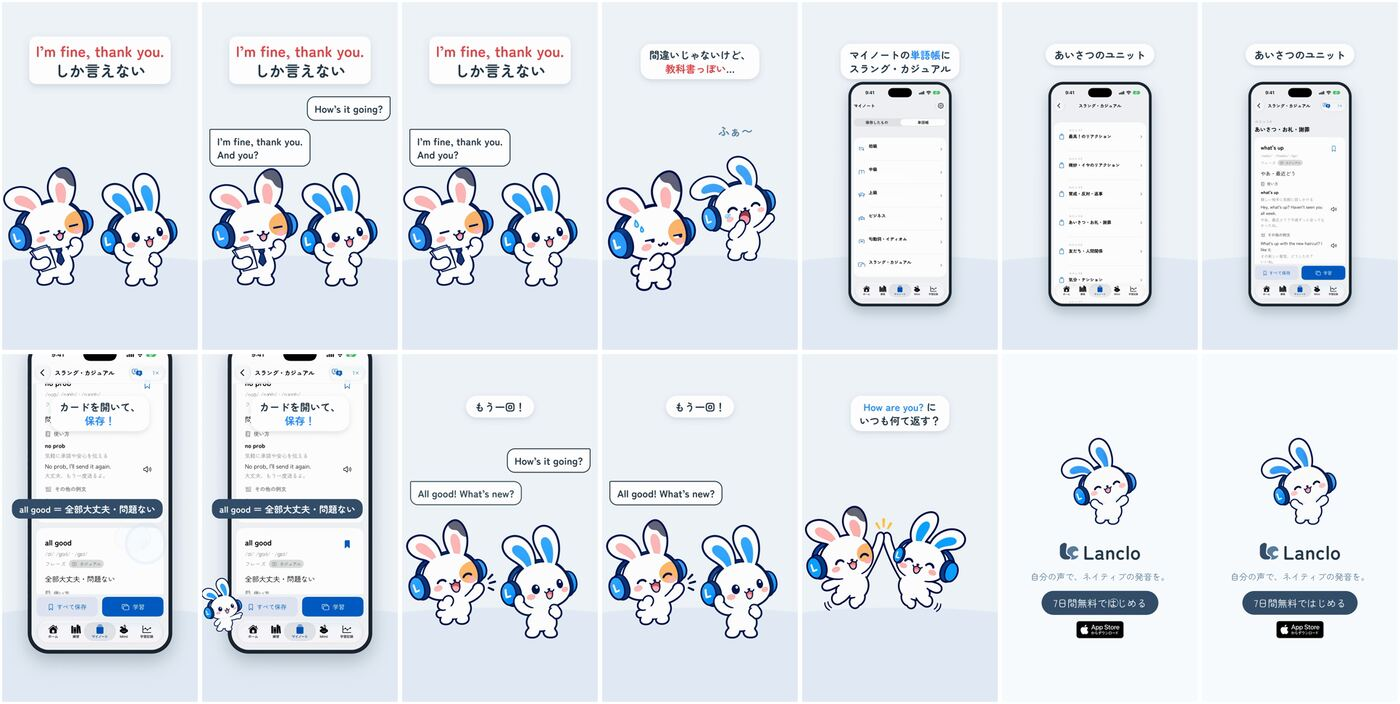
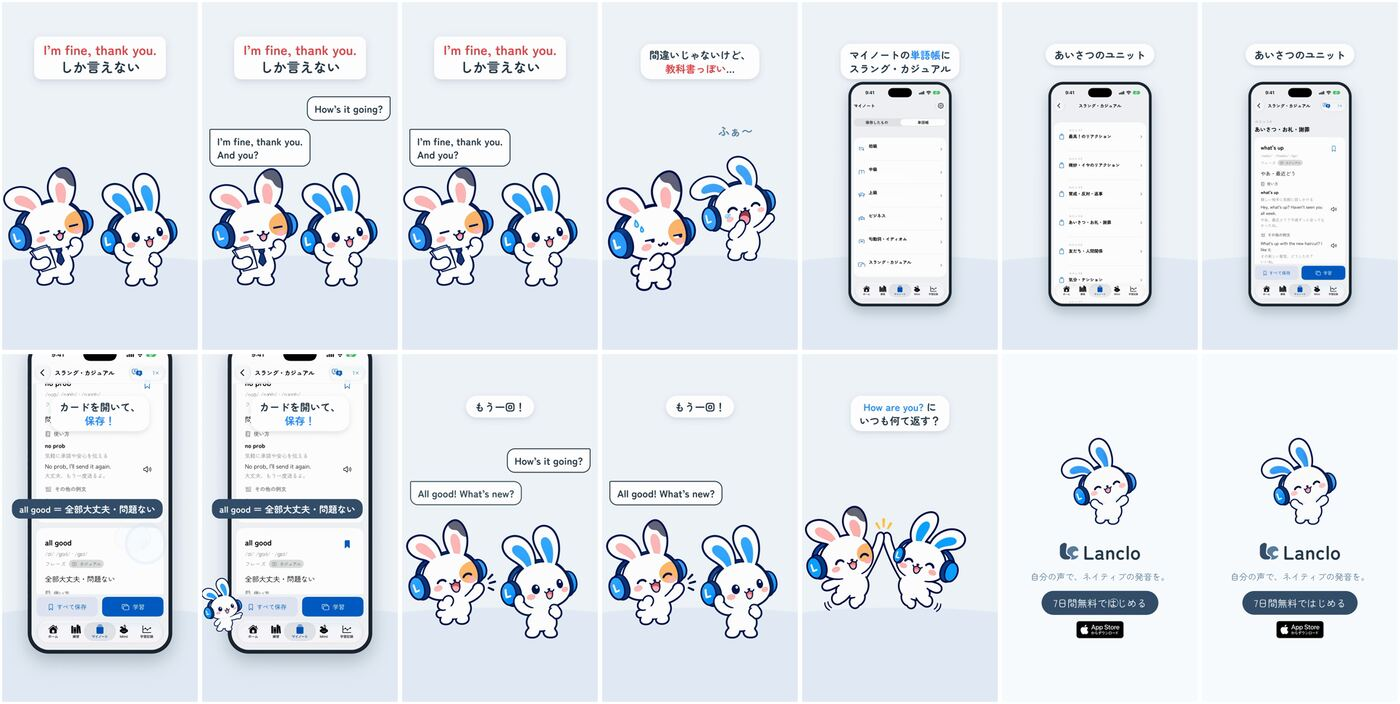
065 draft v2: quieter bed in the voiceless app beat, hook card margin
Static gain instead of the kit's dynamic loudnorm (the app beat sat at
-14.5 LUFS): bed at -26 dBFS RMS, film about -17 LUFS, TP -1.7 dBTP.

Changed region(s): [[0.3071, 0.0625, 0.3993, 0.125], [0.1536, 0.0625, 0.2764, 0.125], [0.0307, 0.0625, 0.1229, 0.125]]

diff --git a/films/mimi-decks-fine/source/hf/index.html b/films/mimi-decks-fine/source/hf/index.html
@@ -12,8 +12,8 @@
       #floor { position: absolute; left: -100px; right: -100px; top: 1400px; height: 620px; background: #e2ebf4; border-radius: 50% 50% 0 0 / 60px 60px 0 0; }
       /* Hook title: on screen from the first frame */
       #hook { position: absolute; left: 30px; right: 30px; top: 190px; text-align: center; }
-      #hook span { display: inline-block; background: #ffffff; color: #273b4b; font-size: 84px; font-weight: 700; line-height: 1.3;
-                   padding: 22px 36px; border-radius: 40px; box-shadow: 0 14px 40px rgba(39, 59, 75, 0.14); }
+      #hook span { display: inline-block; background: #ffffff; color: #273b4b; font-size: 74px; font-weight: 700; line-height: 1.3; white-space: nowrap;
+                   padding: 22px 52px; border-radius: 40px; box-shadow: 0 14px 40px rgba(39, 59, 75, 0.14); }
       #hook em { font-style: normal; color: #e5484d; }
       /* the two bunnies: Friend on the left, Mimi on the right */
       #f-speech, #f-shrink, #f-hello { left: 10px; top: 900px; width: 520px; }

diff --git a/films/mimi-decks-fine/source/scripts/mix.py b/films/mimi-decks-fine/source/scripts/mix.py
@@ -18,7 +18,7 @@ import numpy as np
 
 SRC = Path(__file__).resolve().parent.parent
 sys.path.insert(0, str(SRC.parents[2] / 'kits/mimi-short/scripts'))
-from sfx import SR, Mix, ding, pochi, pofu, pop_seq, tap, whoosh  # noqa: E402
+from sfx import SR, Mix, ding, lowpass, pochi, pofu, pop_seq, tap, whoosh  # noqa: E402
 
 # Cue sheet (seconds); hf/index.html uses the same times.
 ASK = 0.1          # Mimi's bubble "How's it going?"
@@ -53,12 +53,27 @@ m.sfx(pop_seq(3, 0.05, base=79), FIVE + 0.15)
 m.bed(0.0, END)
 m.end_chord(END)
 m.sfx(pochi(), END + 0.6)
-out = m.write(SRC / 'hf/assets/mix.wav')
+# Static mix (same bus balance and ducking as Mix.write, but no dynamic loudnorm: its single pass lifted the voiceless
+# app beat to about -14.5 LUFS). One gain for the whole film: -14 LUFS integrated, but never more than puts the
+# un-ducked bed (the voiceless app beat) at BED_RMS; then a limiter keeps the true peak under -1.5 dBTP.
+BED_RMS = -26.0  # dBFS RMS of the BGM-only stretch, as in the other films' bed
+env = lowpass(np.abs(m.v), 0.002)
+duck = lowpass(1 - 0.75 * np.clip(env / (env.max() * 0.12 + 1e-9), 0, 1), 0.0008)
+mix = m.v + 0.35 * lowpass(m.s, 0.35) + 0.55 * m.m * duck
+mix /= np.abs(mix).max() / 0.9
+out = SRC / 'hf/assets/mix.wav'
+out.parent.mkdir(parents=True, exist_ok=True)
 
 
-# loudnorm's single pass stops short of -14 on a short, voice-sparse film (true peak bound): measure, add the missing gain
-# in front of a limiter (0.8, true peak under -1.5 dBTP), and measure again. The balance between voice, SFX and bed is unchanged.
-# (Same step as films/mimi-katakana-mcdonalds/source/scripts/mix.py.)
+def save(x, path):
+    import wave
+    with wave.open(str(path), 'wb') as w:
+        w.setnchannels(2)
+        w.setsampwidth(2)
+        w.setframerate(SR)
+        w.writeframes((np.stack([x, x], 1).clip(-1, 1) * 32767).astype(np.int16).tobytes())
+
+
 def lufs(f):
     err = subprocess.run(['ffmpeg', '-hide_banner', '-nostats', '-i', str(f), '-af', 'loudnorm=print_format=json', '-f', 'null', '-'],
                          capture_output=True, text=True).stderr
@@ -66,12 +81,21 @@ def lufs(f):
     return float(d['input_i']), float(d['input_tp'])
 
 
-for _ in range(3):
-    i, tp = lufs(out)
-    if abs(i + 14) < 0.3 and tp <= -1.5:
-        break
-    tmp = out.with_suffix('.tmp.wav')
-    subprocess.run(['ffmpeg', '-v', 'error', '-y', '-i', str(out), '-af',
-                    f'volume={-14 - i + 0.1:.2f}dB,alimiter=limit=0.8:level=false:attack=1:release=60', '-ar', str(SR), str(tmp)], check=True)
-    shutil.move(tmp, out)
-print(out, 'I=%.1f LUFS TP=%.1f dBTP' % lufs(out))
+def rms_db(x, a, b):
+    seg = x[int(a * SR):int(b * SR)]
+    return 20 * np.log10(np.sqrt(np.mean(seg ** 2)) + 1e-12)
+
+
+# Commander review (2026-10-23): keep the bed quiet; reach -14 only if the bed stays at its cap. The voice lines have a high
+# crest factor, so with the bed at BED_RMS the film lands near -17 LUFS integrated: the quieter result is kept on purpose.
+raw = out.with_suffix('.raw.wav')
+save(mix, raw)
+i0, _ = lufs(raw)
+bed = rms_db(mix, 6.0, 10.0)                       # the voiceless app beat (whooshes and taps included)
+gain = min(-14.0 - i0, BED_RMS - bed)
+subprocess.run(['ffmpeg', '-v', 'error', '-y', '-i', str(raw), '-af',
+                f'volume={gain:.2f}dB,alimiter=limit=0.8:level=false:attack=1:release=60', '-ar', str(SR), str(out)], check=True)
+raw.unlink()
+i, tp = lufs(out)
+print(out, 'I=%.1f LUFS TP=%.1f dBTP; gain %.1f dB (to -14: %.1f, bed cap: %.1f); app-beat RMS %.1f dBFS, voice RMS %.1f / %.1f dBFS' % (
+    i, tp, gain, -14.0 - i0, BED_RMS - bed, bed + gain, rms_db(mix, 0.75, 3.6) + gain, rms_db(mix, 12.95, 14.35) + gain))

diff --git a/films/mimi-decks-fine/PROCESS.md b/films/mimi-decks-fine/PROCESS.md
@@ -24,8 +24,17 @@ Notion Content Calendar ID 065（Drive「065. Beyond Im Fine Thank You」、Pref
 - 新しいポーズ2つ（codex-p、キャスト参照画像つき）：`mimi-yawn`（あくび）と `highfive`（Mimiと友だちのハイタッチ）。1回目のハイタッチは手が合っているのが分かりにくく（頬を寄せているように見えた）、`prompts/02-codex-highfive-retry.txt` で1回やり直して採用。参考にした mimi-origin の highfive は友だちがベレー帽なので使わなかった。ほかはライブラリの friend-speech（紙を持つ＝教科書っぽい）、friend-shrink、friend-hello、speak-open、point。
 - 録画は2回。1回目はユニット内のスクロールが足りず all good に届かなかった（Drive には上げない）。2回目は届いたがカードを上に寄せる動作が効かず、カードは画面下のまま保存した。編集で端末を1.4倍に寄せて見せた（35秒ほどのスクロールの停滞は使っていない）。スクロール部分は45倍速で1秒。
 - xcodebuild の test-without-building がテスト終了後も終わらず、1回目は手で止めた（シミュレーターのロックは毎回解放）。
-- 音：キットの Mix.write のあと、mimi-katakana-mcdonalds と同じ後処理（不足分のゲイン＋リミッター）で −14.1 LUFS、トゥルーピーク −1.6 dBTP。リミッターは 0.8（0.84 だと −1.3 dBTP だった）。
+- 音（v1）：キットの Mix.write のあと、mimi-katakana-mcdonalds と同じ後処理（不足分のゲイン＋リミッター）で −14.1 LUFS、トゥルーピーク −1.6 dBTP。
 - セーフエリア（コーディネーター指示）：英語字幕は y≤1500・x 60–880 に収め、エンドカードの英語字幕は上（y 230）へ。右の操作列（x>900, y 820–1520）にラベル・吹き出し・小さいMimiを置かない（説明ラベルは x 60–880、保存時の小さいMimiは左下）。キャラの顔は x 900 より左。フックの1行目は y≥200。
+
+## v2（コマンダーのレビュー、2026-10-23）
+
+指示（要約）：アプリ部分（5.5–12.2秒、BGMとSFXだけ）が約 −14.5 LUFS で大きすぎる。イヤホンで聞くオーナーはBGM・SFXを声の下で静かにしたい。声のない区間はほかの作品のBGMだけの部分と同じ（約 −25〜−27 dB RMS、キットの THEME_GAIN のまま、追加ゲインなし）。−14 LUFS は声がはっきり上にある場合だけ。ベッドが上がるなら静かな方を選んで数値を報告。フックの「I'm fine, thank you.」がカードの右端に触れているので余白を。
+
+- 原因：Mix.write の loudnorm（1パス、動的）が声のない区間を持ち上げていた。`mix.py` は Mix.write と同じバス配分とダッキングのまま、loudnorm を使わず作品全体に1つのゲイン（−14 LUFS に必要な量と、アプリ部分を −26 dBFS RMS にする量の小さい方）＋リミッター 0.8 にした。
+- 結果：アプリ部分 −26 dBFS RMS（約 −24.4 LUFS）、声の区間 −13.4 / −9.9 LUFS、全体 −17.4 LUFS integrated、トゥルーピーク −1.7 dBTP。声のクレストが大きく、ベッドを上限に置くと −14 には届かないので、指示どおり静かな方を採った。
+- フック：文字 84→74px、左右の余白 36→52px、折り返しなし。
+- Drive：v1 は `old/` に `_v1` を付けて移動。
 
 ## 学んだこと
 

diff --git a/films/mimi-decks-fine/README.ja.md b/films/mimi-decks-fine/README.ja.md
@@ -2,7 +2,7 @@
 
 [English](README.md) · **日本語**
 
-状態：**レビュー用ドラフト**（2026-10-23）。
+状態：**レビュー用ドラフト**（2026-10-23、v2：BGMを静かに、フックの余白）。
 
 1フレーム目からフック「I'm fine, thank you. しか言えない」。Mimiが「How's it going?」（吹き出し）と聞き、友だちは教科書どおりのロボット口調で「I'm fine, thank you. And you?」（オーナー本人の登録音声）。Mimiはあくび、「間違いじゃないけど、教科書っぽい…」。実際のアプリ（シミュレーター、同梱の単語帳データ）：マイノート → 単語帳 → スラング・カジュアル → ユニット4 あいさつ・お礼・謝罪 → 「all good」（全部大丈夫・問題ない）のカード → 保存。友だちは単語帳に本当にある言い方でやり直し「All good! What's new?」（all good も what's new もユニット4のカード）、ハイタッチ。コメント誘導「How are you? にいつも何て返す？」。エンドカードとCTAのタップ。
 

diff --git a/films/mimi-decks-fine/README.md b/films/mimi-decks-fine/README.md
@@ -2,7 +2,7 @@
 
 **English** · [日本語](README.ja.md)
 
-Status: **draft for review** (2026-10-23).
+Status: **draft for review** (2026-10-23, v2: quieter bed, hook card margin).
 
 Hook from the first frame:「I'm fine, thank you. しか言えない」(All I can say is "I'm fine, thank you."). Mimi asks "How's it going?" (speech bubble); the Friend answers like a textbook robot, "I'm fine, thank you. And you?" (the owner's own registered voice). Mimi yawns:「間違いじゃないけど、教科書っぽい…」. The real app (simulator, shipped deck content): My Notes → 単語帳 → スラング・カジュアル → ユニット4 あいさつ・お礼・謝罪 → the "all good" card (全部大丈夫・問題ない) → save. The Friend tries again with a line that is really in that deck, "All good! What's new?" (both "all good" and "what's new" are cards in unit 4), and they high-five. Comment prompt:「How are you? にいつも何て返す？」. End card with the CTA tap.
 

diff --git a/films/mimi-decks-fine/source/README.md b/films/mimi-decks-fine/source/README.md
@@ -14,7 +14,7 @@ kits/mimi-short/scripts/cutout.sh $F/art/mimi-yawn.png $F/art/mimi-yawn.webp
 kits/mimi-short/scripts/cutout.sh $F/art/highfive.png $F/art/highfive.webp
 # 3. voices (owner's own voice, paid; or copy fine.wav / casual.wav from Drive Decks_ImFine_assets/own-voice/ to $F/assets/own-voice/)
 python3 kits/mimi-short/scripts/ownvoice.py $F/own-voice.json
-uv run --no-project --with numpy python $F/scripts/mix.py      # hf/assets/mix.wav, -14 LUFS, TP <= -1.5 dBTP
+uv run --no-project --with numpy python $F/scripts/mix.py      # hf/assets/mix.wav: one static gain, bed at -26 dBFS RMS (about -17 LUFS), TP <= -1.5 dBTP
 # 4. edit and render
 kits/mimi-short/stage.sh $F/hf
 mkdir -p $F/hf/assets/art && P=kits/mimi-short/library/poses && cp $F/art/mimi-yawn.webp $F/art/highfive.webp \
